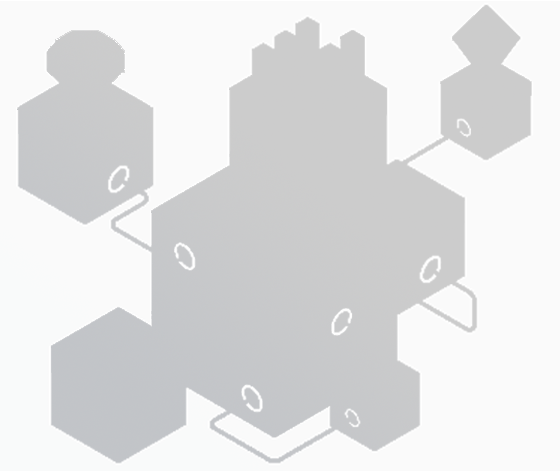
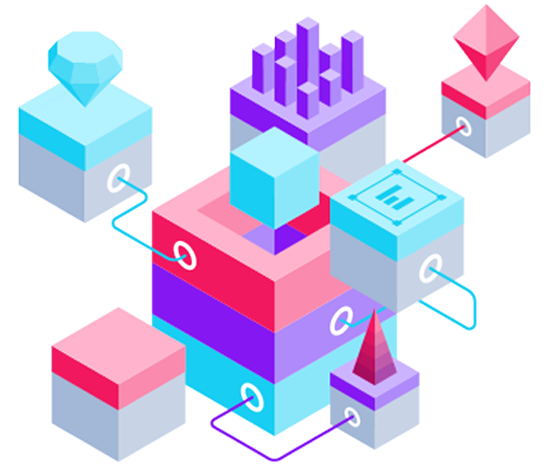
Content modifications

diff --git a/index.html b/index.html
@@ -141,7 +141,7 @@
                         <h6>Tokenomics</h6>  
                             <span><b>Token Name:</b> Cecil Network Token</span>
                             <hr>
-                            <span><b>Ticker:</b> 1 CNT = $ 0.50</span>
+                            <span><b>Ticker:</b> 1CNT = $0.10</span>
                             <hr>
                             <span><b>Total Supply:</b> 300 Million $CNT</span> 
                     </div>
@@ -152,7 +152,7 @@
                         <!-- Icon -->
                         <h6>Token Distributions</h6> 
                         <div class="service_iconn">
-                            <img src="img/core-img/g1.png" alt="">
+                            <img src="img/core-img/distribution.png" alt="">
                         </div>
                         
                     </div>
@@ -233,7 +233,7 @@
                         </div>
                         <h4 class="fadeInUp" data-wow-delay="0.3s">Cecil Decentralized Network is building an ecosystem for gig service providers to earn and make a living in a decentralized autonomous environment fostering trust and innovation.</h4>  
                         <div class="clearfix"></div>
-                        <a class="btn dream-btn mt-30 fadeInUp" data-wow-delay="0.6s" href="#">Join us on Discord</a> <a class="btn dream-btn mt-30 fadeInUp" data-wow-delay="0.6s" href="#">Join us on Twitter</a>
+                        <a class="btn dream-btn mt-30 fadeInUp" data-wow-delay="0.6s" href="https://discord.gg/V3AQ32wy">Join us on Discord</a> <a class="btn dream-btn mt-30 fadeInUp" data-wow-delay="0.6s" href="https://twitter.com/cecil_network?s=21&t=Pz8UuuBJPAIRCPPcFxzLSQ">Join us on Twitter</a>
                     </div>
                 </div>
                 <div class="col-12 col-lg-6 mt-s no-padding-right">
@@ -424,7 +424,7 @@
 
     
     <!-- ##### FAQ & Timeline Area Start ##### -->
-    <div class="faq-timeline-area section-padding-100-85" id="faq">
+    <div class="faq-timeline-area section-padding-100-85" >
         <div class="container">
             <div class="section-heading text-center">
                 <!-- Dream Dots --> 
@@ -439,7 +439,7 @@
                 </div>
                 <div class="col-sm-12"><hr></div>
             </div>
-            <div class="section-heading text-center">
+            <div class="section-heading text-center" id="faq">
                 <!-- Dream Dots -->
                 <div class="dream-dots justify-content-center fadeInUp" data-wow-delay="0.2s">
                     <span>Token FAQ</span>

diff --git a/buynow.html b/buynow.html
@@ -75,7 +75,7 @@
     <!-- ##### Header Area End ##### -->
 
     <!-- ##### Welcome Area Start ##### -->
-    <section class="welcome_area clearfix dzsparallaxer auto-init none fullwidth" data-options='{direction: "normal"}' id="home" style="height: 299px!important;">
+    <section class="welcome_area clearfix dzsparallaxer auto-init none fullwidth" data-options='{direction: "normal"}' id="homee" style="height: 299px!important;">
         <div class="divimage dzsparallaxer--target" style="width: 101%; height: 130%; background-image: url(img/bg-img/bg-5.png)"></div>
 
         <!-- Hero Content -->
@@ -100,7 +100,7 @@
     <div class="clearfix"></div>
 
     <!-- ##### Our Services Area Start ##### -->
-    <section class="token section-padding-100-0 clearfix fdrfr" id="about">
+    <section class="token section-padding-100-0 clearfix fdrfr" id="aboutt">
         <div class="container">
             <div class="col-sm-3"></div>
             <div class="col-sm-6" style="margin-top: -235px; background-color: white; z-index: 8; border-radius: 10px; box-shadow: 0px 0px 3px #1010106b; padding: 28px; word-break: break-all;">
@@ -108,7 +108,7 @@
                             <img src="img/core-img/cecil_addr_qr.png">
                             <p style="color: black">addr1qxf08al50ttckamrfzxxavfpct2zlmknds8gxd7j7hr9a70vkud84z2chxnaq5y8p8jewp2pcm7ksxqpahq33e0f6cvqcauxcr</p>
                             <div style="color: black">0.10 USD = 1 CNT</div>
-                            <p style="color: black">In order to recieve CECIL Tokens, please send ADA to the provided address above, enter the transaction hash below. Your wallet address will be automatically credited with with CECIL. When ADA is confirmed.</p>
+                            <p style="color: black">In order to recieve CECIL Tokens, please send ADA to the provided address above, enter the transaction hash below. Your wallet address will be automatically credited with with CECIL when ADA is confirmed.</p>
                             <input type="text" placeholder="Enter transaction hash" style="max-width:100%;height: 39px;padding: 10px;">
                             <button class="btn btn-primary">Submit</button>
                         </div>
